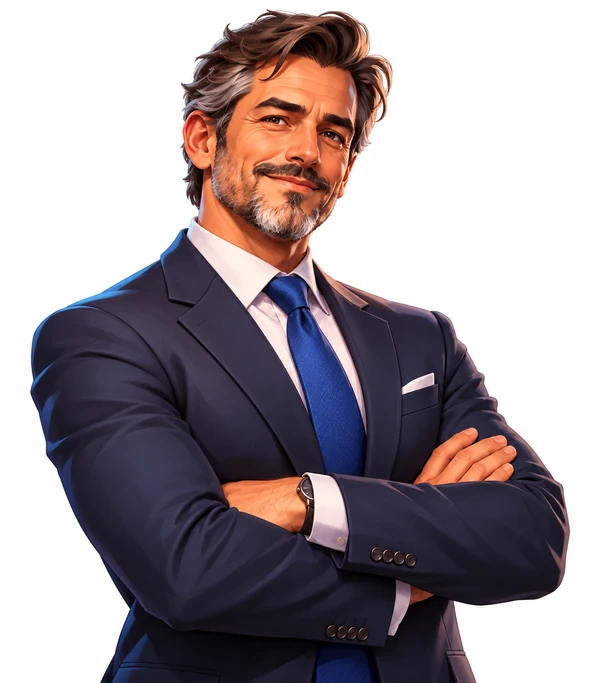
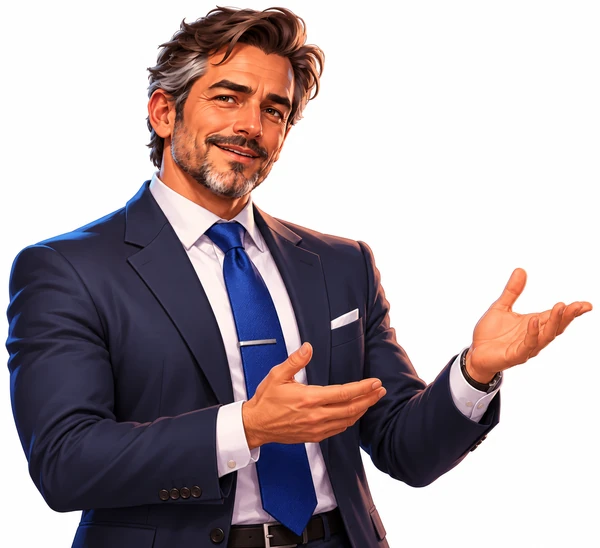
mirror: 2026-10-18T17:36Z

diff --git a/styles.css b/styles.css
@@ -195,7 +195,7 @@ html, body {
 
 .story-collapsed-avatar {
   width: 34px;
-  height: 44px;
+  height: 40px;
   border-radius: 9px;
   object-fit: cover;
   object-position: center top;
@@ -242,8 +242,8 @@ html, body {
 
 .story-avatar {
   flex: 0 0 auto;
-  width: 78px;
-  height: 104px;
+  width: 84px;
+  height: 96px;
   border-radius: 12px;
   object-fit: cover;
   object-position: center top;
@@ -1103,8 +1103,8 @@ html, body {
   .left-stack { gap: 6px; }
   .story-widget { left: 10px; top: 102px; }
   .story-card { width: calc(100vw - 20px); padding: 8px; gap: 8px; }
-  .story-avatar { width: 64px; height: 86px; }
-  .story-collapsed-avatar { width: 30px; height: 40px; }
+  .story-avatar { width: 66px; height: 78px; }
+  .story-collapsed-avatar { width: 30px; height: 36px; }
   .story-collapsed { font-size: 11px; }
   .story-body p { font-size: 10px; }
   .story-meta { font-size: 8px; }

diff --git a/docs/STATUS.md b/docs/STATUS.md
@@ -264,7 +264,7 @@ viewport 1280x800 и 390x844. Отдельно проверена сборка G
 ## Сюжетный старт и экономика (2026-10-18)
 
 - Старт: карточка друга открыта с приветствием и кнопкой «Далее»;
-  портрет `assets/images/friend.webp` загружается (600×683, 42 КБ).
+  портрет `assets/images/friend.webp` загружается (600×548, 38 КБ).
   Прогресс скрыт, контракты скрыты,
   метка контракта на Земле отсутствует, связь в магазине закрыта,
   карточки тепловизора и реального спутника скрыты.
